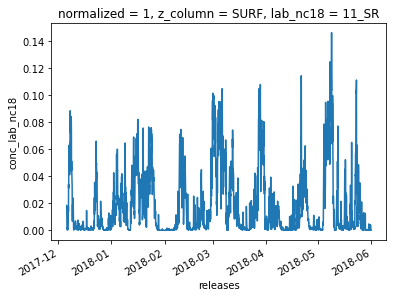
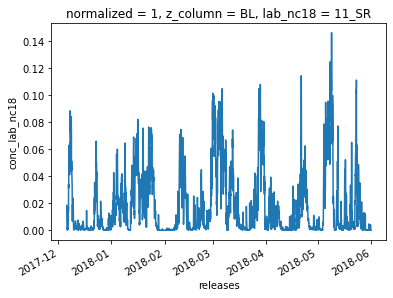
merging mac from taito

Changed region(s): [[0.1527, 0.0302, 0.9771, 0.0604]]

diff --git a/flexpart_management/releases/v03/.virtual_documents/readme.ipynb.py b/flexpart_management/releases/v03/.virtual_documents/readme.ipynb.py
@@ -1,0 +1,55 @@
+import xarray as xr
+
+
+ds = xr.open_dataset('./data/cluster_series_v3.nc')
+ds
+
+
+ds['conc_lab_nc18'].loc[
+    {'z_column':'ALL','lab_nc18':'11_SR','normalized':0}
+].plot()
+
+
+ds['conc_lab_nc18'].loc[
+    {'z_column':'ALL','lab_nc18':'11_SR','normalized':1}
+].plot()
+
+
+ds['conc_lab_nc18'].loc[
+    {'z_column':'BL','lab_nc18':'11_SR','normalized':1}
+].plot()
+
+
+dall = ds['conc_lab_nc18'].loc[
+    {'z_column':'ALL','lab_nc18':'11_SR','normalized':1}
+]
+dsurf = ds['conc_lab_nc18'].loc[
+    {'z_column':'BL','lab_nc18':'11_SR','normalized':1}
+]
+(dsurf/dall).plot()
+
+
+ds['age_lab_nc18'].loc[
+    {'z_column':'ALL','lab_nc18':'11_SR',}
+].plot()
+
+
+ds['ZSL_all'].loc[
+    {'z_column':'ALL'}
+].plot()
+
+
+ds['conc_all'].loc[
+    {'z_column':'ALL','normalized':0}
+].plot(ylim=(0,None))
+
+
+ds['conc_all'].loc[
+    {'z_column':'ALL','normalized':0,'releases':slice('2018-05-09','2018-05-11')}
+].plot(ylim=(0,None))
+
+
+get_ipython().getoutput("jupyter-nbconvert --to markdown readme.ipynb")
+
+
+

diff --git a/flexpart_management/releases/v03/readme.py b/flexpart_management/releases/v03/readme.py
@@ -5,7 +5,7 @@
 #       extension: .py
 #       format_name: percent
 #       format_version: '1.3'
-#       jupytext_version: 1.4.0
+#       jupytext_version: 1.11.1
 #   kernelspec:
 #     display_name: Python 3
 #     language: python
@@ -25,6 +25,10 @@
 #   - pol18.kml  
 #   google earth polygones for the 18 clusters
 #
+#   - csv folder  
+#     - a csv "version" of the nc (netCDF) file.
+#     - for metadata please refer to the description_cluster_series_v3.csv file.
+#     
 # below are some examples on how to use the dataset
 
 # %% [markdown]
@@ -103,5 +107,8 @@ ds['conc_all'].loc[
     {'z_column':'ALL','normalized':0,'releases':slice('2018-05-09','2018-05-11')}
 ].plot(ylim=(0,None))
 
-# %%
+# %% tags=[]
+# !jupyter-nbconvert --to markdown readme.ipynb
 
+
+# %%

diff --git a/flexpart_management/releases/v03/readme.md b/flexpart_management/releases/v03/readme.md
@@ -9,10 +9,11 @@ This notebook contains information regarding the release v03 of the timeseries f
   google earth polygones for the 6 pathways
   - pol18.kml  
   google earth polygones for the 18 clusters
+
   - csv folder  
     - a csv "version" of the nc (netCDF) file.
-    - for metadata please refer to the description_cluster_series_v3.csv file. 
-
+    - for metadata please refer to the description_cluster_series_v3.csv file.
+    
 below are some examples on how to use the dataset
 
 open the dataset
@@ -32,13 +33,13 @@ ds
 
 
 <pre>&lt;xarray.Dataset&gt;
-Dimensions:         (lab_nc06: 6, lab_nc18: 18, normalized: 2, releases: 4248, z_column: 2)
+Dimensions:         (lab_nc06: 6, lab_nc18: 18, normalized: 2, releases: 4248, z_column: 3)
 Coordinates:
   * normalized      (normalized) int64 0 1
-  * z_column        (z_column) object &#x27;ALL&#x27; &#x27;SURF&#x27;
+  * z_column        (z_column) object &#x27;ALL&#x27; &#x27;BL&#x27; &#x27;LEV0&#x27;
   * releases        (releases) datetime64[ns] 2017-12-06 ... 2018-05-31T23:00:00
-  * lab_nc18        (lab_nc18) object &#x27;11_SR&#x27; &#x27;10_LR&#x27; ... &#x27;08_LR&#x27; &#x27;03_SM&#x27;
-  * lab_nc06        (lab_nc06) object &#x27;07_PW&#x27; &#x27;05_PW&#x27; ... &#x27;03_PW&#x27; &#x27;12_PW&#x27;
+  * lab_nc18        (lab_nc18) object &#x27;08_LR&#x27; &#x27;12_SR&#x27; ... &#x27;08_SM&#x27; &#x27;02_SR&#x27;
+  * lab_nc06        (lab_nc06) object &#x27;05_PW&#x27; &#x27;08_PW&#x27; ... &#x27;11_PW&#x27; &#x27;03_PW&#x27;
 Data variables:
     conc_all        (normalized, z_column, releases) float64 ...
     age_all         (z_column, releases) float64 ...
@@ -73,12 +74,14 @@ ds['conc_lab_nc18'].loc[
 
 
 
-    [<matplotlib.lines.Line2D at 0x11bffb898>]
+    [<matplotlib.lines.Line2D at 0x120977860>]
 
 
 
 
+    
 ![png](readme_files/readme_5_1.png)
+    
 
 
 plot all column normalized SRR timeseries for cluster '11_SR'
@@ -93,32 +96,36 @@ ds['conc_lab_nc18'].loc[
 
 
 
-    [<matplotlib.lines.Line2D at 0x11b9f6710>]
+    [<matplotlib.lines.Line2D at 0x120ac8908>]
 
 
 
 
+    
 ![png](readme_files/readme_7_1.png)
+    
 
 
-plot surface normalized SRR timeseries for cluster '11_SR'
+plot BL normalized SRR timeseries for cluster '11_SR'
 
 
 ```python
 ds['conc_lab_nc18'].loc[
-    {'z_column':'SURF','lab_nc18':'11_SR','normalized':1}
+    {'z_column':'BL','lab_nc18':'11_SR','normalized':1}
 ].plot()
 ```
 
 
 
 
-    [<matplotlib.lines.Line2D at 0x11c35fb00>]
+    [<matplotlib.lines.Line2D at 0x120dd0320>]
 
 
 
 
+    
 ![png](readme_files/readme_9_1.png)
+    
 
 
 plot ratio column normalized SRR timeseries for cluster '11_SR'
@@ -129,7 +136,7 @@ dall = ds['conc_lab_nc18'].loc[
     {'z_column':'ALL','lab_nc18':'11_SR','normalized':1}
 ]
 dsurf = ds['conc_lab_nc18'].loc[
-    {'z_column':'SURF','lab_nc18':'11_SR','normalized':1}
+    {'z_column':'BL','lab_nc18':'11_SR','normalized':1}
 ]
 (dsurf/dall).plot()
 ```
@@ -137,12 +144,14 @@ dsurf = ds['conc_lab_nc18'].loc[
 
 
 
-    [<matplotlib.lines.Line2D at 0x11cf524e0>]
+    [<matplotlib.lines.Line2D at 0x120edf3c8>]
 
 
 
 
+    
 ![png](readme_files/readme_11_1.png)
+    
 
 
 plot age [hours] all column timeseries for cluster '11_SR'
@@ -157,12 +166,14 @@ ds['age_lab_nc18'].loc[
 
 
 
-    [<matplotlib.lines.Line2D at 0x11cdc8d30>]
+    [<matplotlib.lines.Line2D at 0x12114da58>]
 
 
 
 
+    
 ![png](readme_files/readme_13_1.png)
+    
 
 
 plot all column mean height above sea level timeseries for all domain
@@ -177,12 +188,14 @@ ds['ZSL_all'].loc[
 
 
 
-    [<matplotlib.lines.Line2D at 0x11bfe24a8>]
+    [<matplotlib.lines.Line2D at 0x121363f60>]
 
 
 
 
+    
 ![png](readme_files/readme_15_1.png)
+    
 
 
 plot all column not normalized SRR timeseries for all domain
@@ -198,12 +211,14 @@ ds['conc_all'].loc[
 
 
 
-    [<matplotlib.lines.Line2D at 0x11e628ac8>]
+    [<matplotlib.lines.Line2D at 0x12177d6d8>]
 
 
 
 
+    
 ![png](readme_files/readme_17_1.png)
+    
 
 
 
@@ -216,13 +231,20 @@ ds['conc_all'].loc[
 
 
 
-    [<matplotlib.lines.Line2D at 0x11ea86908>]
+    [<matplotlib.lines.Line2D at 0x120aac358>]
 
 
 
 
+    
 ![png](readme_files/readme_18_1.png)
+    
 
+
+
+```python
+!jupyter-nbconvert --to md readme.ipynb
+```
 
 
 ```python
